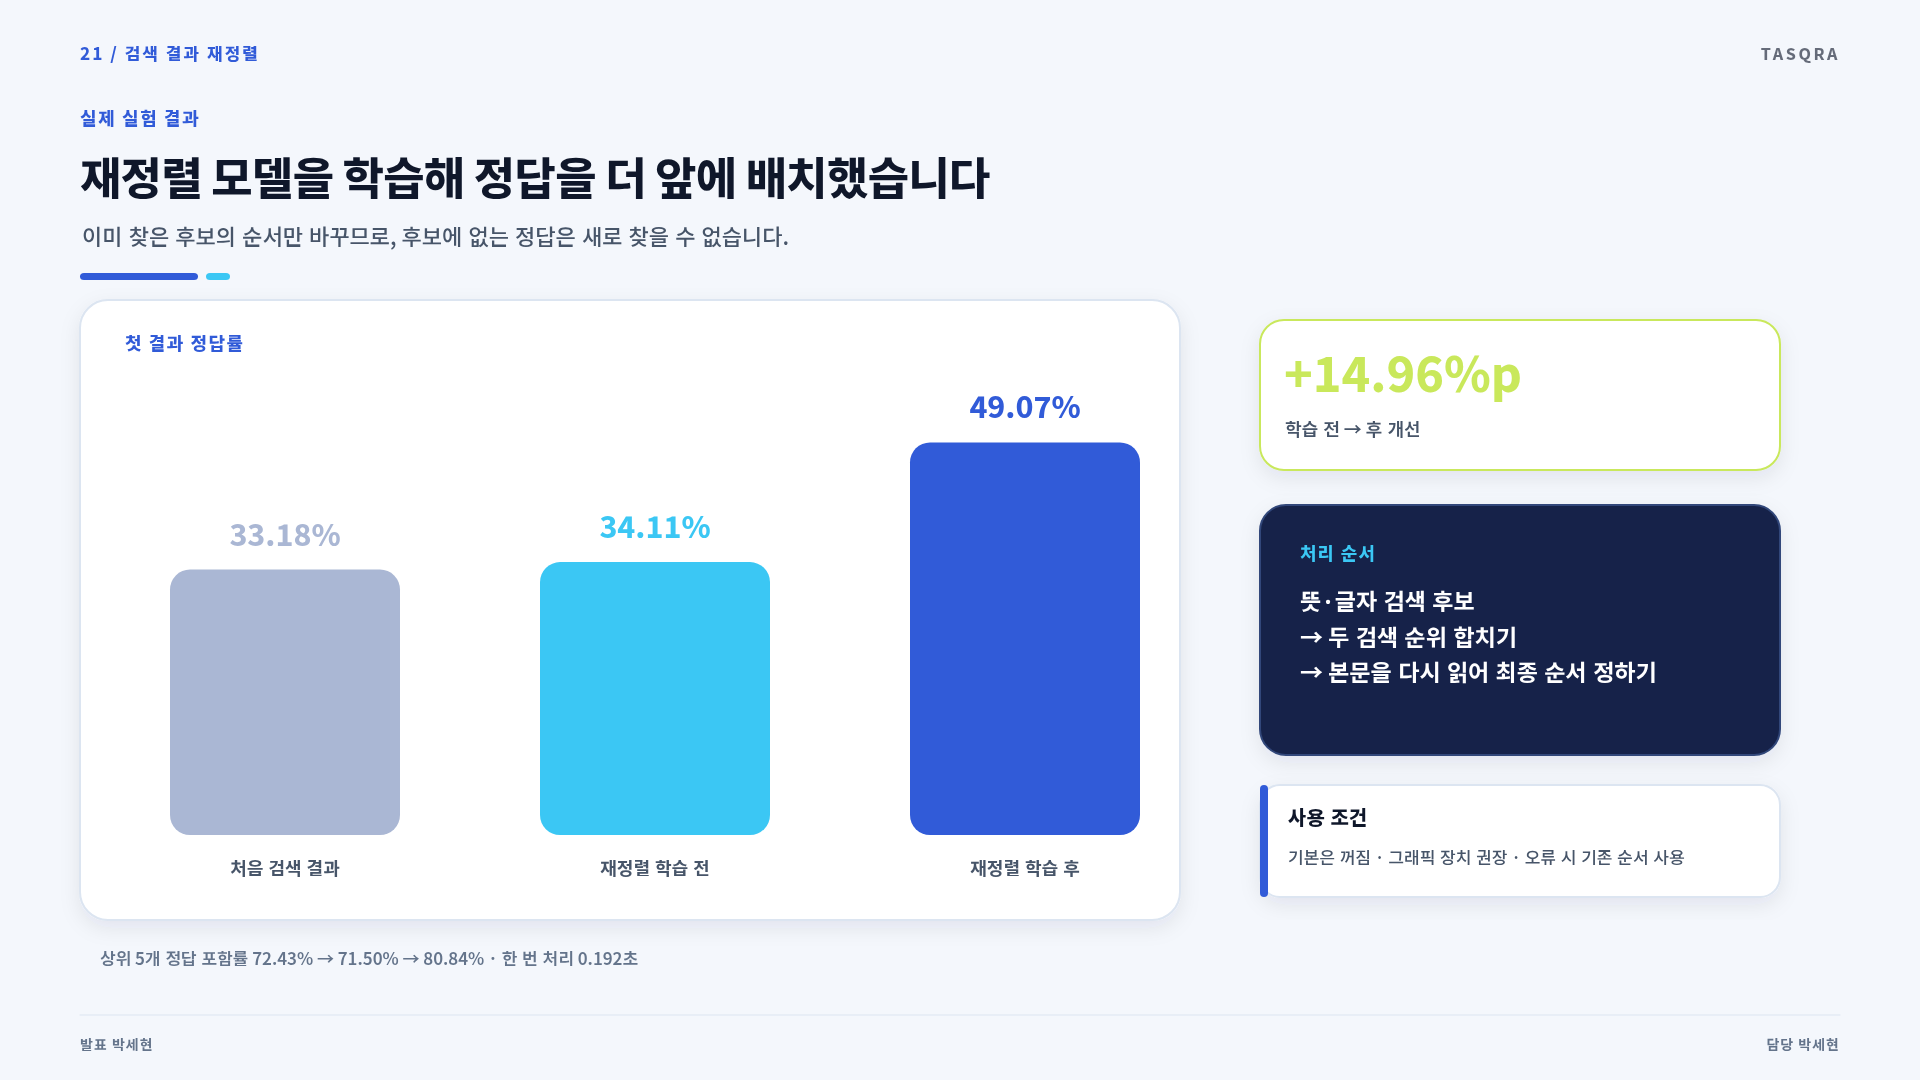
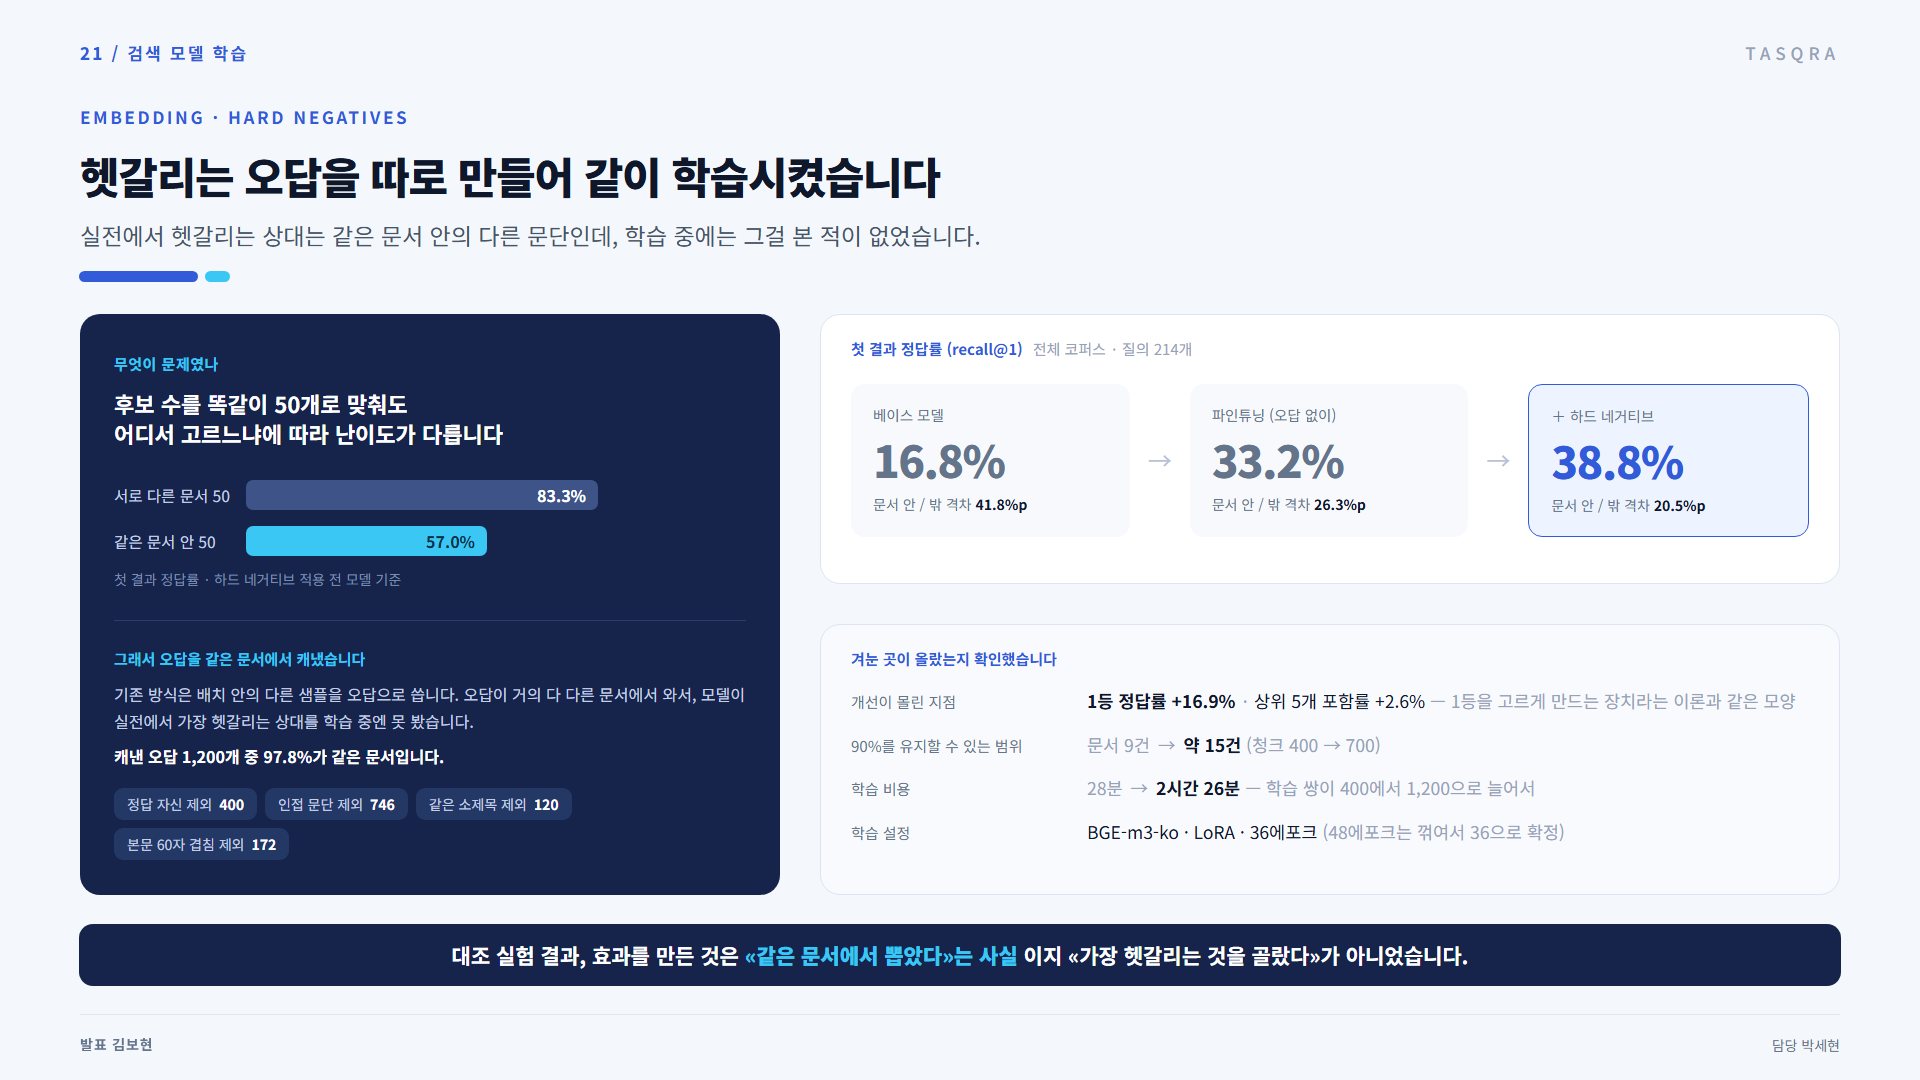
docs: 21번 발표 경계 이동과 세현님 슬라이드 번호 교체

diff --git a/산출물/최종발표/전체본/preview-01-21.html b/산출물/최종발표/전체본/preview-01-21.html
@@ -1,1 +1,1 @@
-<!doctype html><html><head><meta charset="utf-8"><style>body{margin:0;background:#dce4f1;font-family:Arial,sans-serif}.grid{display:grid;grid-template-columns:repeat(4,1fr);gap:18px;padding:18px}.item{background:white;padding:6px;box-shadow:0 5px 18px #0e162f22}.item img{width:100%;display:block}.item b{display:block;padding:6px;color:#16234a}</style></head><body><div class="grid"><div class="item"><b>01</b><img src="slide-01.svg"></div><div class="item"><b>02</b><img src="slide-02.svg"></div><div class="item"><b>03</b><img src="slide-03.svg"></div><div class="item"><b>04</b><img src="slide-04.svg"></div><div class="item"><b>05</b><img src="slide-05.svg"></div><div class="item"><b>06</b><img src="slide-06.svg"></div><div class="item"><b>07</b><img src="slide-07.svg"></div><div class="item"><b>08</b><img src="slide-08.svg"></div><div class="item"><b>09</b><img src="slide-09.svg"></div><div class="item"><b>10</b><img src="slide-10.svg"></div><div class="item"><b>11</b><img src="slide-11.svg"></div><div class="item"><b>12</b><img src="slide-12.svg"></div><div class="item"><b>13</b><img src="slide-13.svg"></div><div class="item"><b>14</b><img src="slide-14.svg"></div><div class="item"><b>15</b><img src="slide-15.svg"></div><div class="item"><b>16</b><img src="slide-16.svg"></div><div class="item"><b>17</b><img src="slide-17.svg"></div><div class="item"><b>18</b><img src="slide-18.svg"></div><div class="item"><b>19</b><img src="slide-19.svg"></div><div class="item"><b>20</b><img src="slide-20.svg"></div><div class="item"><b>21</b><img src="slide-21.svg"></div></div></body></html>
+<!doctype html><html><head><meta charset="utf-8"><style>body{margin:0;background:#dce4f1;font-family:Arial,sans-serif}.grid{display:grid;grid-template-columns:repeat(4,1fr);gap:18px;padding:18px}.item{background:white;padding:6px;box-shadow:0 5px 18px #0e162f22}.item img{width:100%;display:block}.item b{display:block;padding:6px;color:#16234a}</style></head><body><div class="grid"><div class="item"><b>01</b><img src="slide-01.svg"></div><div class="item"><b>02</b><img src="slide-02.svg"></div><div class="item"><b>03</b><img src="slide-03.svg"></div><div class="item"><b>04</b><img src="slide-04.svg"></div><div class="item"><b>05</b><img src="slide-05.svg"></div><div class="item"><b>06</b><img src="slide-06.svg"></div><div class="item"><b>07</b><img src="slide-07.svg"></div><div class="item"><b>08</b><img src="slide-08.svg"></div><div class="item"><b>09</b><img src="slide-09.svg"></div><div class="item"><b>10</b><img src="slide-10.svg"></div><div class="item"><b>11</b><img src="slide-11.svg"></div><div class="item"><b>12</b><img src="slide-12.svg"></div><div class="item"><b>13</b><img src="slide-13.svg"></div><div class="item"><b>14</b><img src="slide-14.svg"></div><div class="item"><b>15</b><img src="slide-15.svg"></div><div class="item"><b>16</b><img src="slide-16.svg"></div><div class="item"><b>17</b><img src="slide-17.svg"></div><div class="item"><b>18</b><img src="slide-18.svg"></div><div class="item"><b>19</b><img src="slide-19.svg"></div><div class="item"><b>20</b><img src="slide-20.svg"></div><div class="item"><b>22</b><img src="slide-22.svg"></div></div></body></html>

diff --git a/도구/pptx/build_final_presentation_29.py b/도구/pptx/build_final_presentation_29.py
@@ -1597,7 +1597,16 @@ def reframe_slide(content: str, display_no: int, presenter: str) -> str:
 
 
 def first21_slides():
-    """22번 이후 파일을 건드리지 않고 새 발표 순서 1~21만 조립한다."""
+    """내가 만드는 장만 조립한다 — 1~20번과 22번이다.
+
+    **21번은 여기서 만들지 않는다.** 21번은 세현님이 만든 검색 모델 학습(하드
+    네거티브) 슬라이드이고, 원본 PNG 의 번호만 바꿔 교체용_PNG 에 넣었다.
+    따라서 이 함수의 결과에는 slide-21 이 없고 slide-22(재정렬 모델)가 들어온다.
+
+    발표 경계도 함께 바뀌었다 — 김보현이 21번까지 발표하고 22번부터 박세현이다.
+    그래서 22번 재정렬 모델의 발표자는 박세현으로 남고, 5번 팀 구성 슬라이드의
+    인계 문구는 `김보현 1~21 → 박세현 22번부터` 로 적는다.
+    """
     # (새 번호, 기존 콘텐츠 검수 키, 생성 함수, 발표자)
     items = [
         (1, 1, v2.slide1, "김보현"),
@@ -1620,7 +1629,8 @@ def first21_slides():
         (18, 16, slide16, "김보현"),
         (19, 17, slide17, "김보현"),
         (20, None, manual_slide20_embedding_selection, "김보현"),
-        (21, 12, slide12, "박세현"),
+        # 21번은 세현님 PNG(검색 모델 학습)로 대체됐다. 재정렬 모델이 22번으로 밀렸다.
+        (22, 12, slide12, "박세현"),
     ]
     slides = []
     for display_no, review_key, builder, presenter in items:
@@ -1631,18 +1641,23 @@ def first21_slides():
         if display_no == 5:
             marker = "기능 슬라이드마다 실제 담당자 표기"
             assert content.count(marker) == 1
-            content = content.replace(marker, "김보현 1~20  →  박세현 21번부터")
-        slides.append(reframe_slide(content, display_no, presenter))
+            content = content.replace(marker, "김보현 1~21  →  박세현 22번부터")
+        slides.append((display_no, reframe_slide(content, display_no, presenter)))
     assert len(slides) == 21
+    assert [no for no, _ in slides] == list(range(1, 21)) + [22]
     return slides
 
 
 def write_first21_svgs():
-    """slide-01~21과 전용 미리보기만 갱신한다. slide-22 이후는 읽거나 쓰지 않는다."""
+    """내가 만드는 장만 갱신한다 — slide-01~20 과 slide-22.
+
+    **slide-21 은 쓰지 않는다.** 세현님 PNG 를 번호만 바꿔 쓰는 장이라 여기서
+    만들면 서로 다른 21번이 생긴다. 23번 이후도 읽거나 쓰지 않는다.
+    """
     OUT.mkdir(parents=True, exist_ok=True)
     slides = first21_slides()
-    for idx, content in enumerate(slides, start=1):
-        path = OUT / f"slide-{idx:02d}.svg"
+    for display_no, content in slides:
+        path = OUT / f"slide-{display_no:02d}.svg"
         path.write_text(content, encoding="utf-8")
         ET.parse(path)
     parts = [
@@ -1650,11 +1665,11 @@ def write_first21_svgs():
         'body{margin:0;background:#dce4f1;font-family:Arial,sans-serif}.grid{display:grid;grid-template-columns:repeat(4,1fr);gap:18px;padding:18px}.item{background:white;padding:6px;box-shadow:0 5px 18px #0e162f22}.item img{width:100%;display:block}.item b{display:block;padding:6px;color:#16234a}',
         '</style></head><body><div class="grid">',
     ]
-    for idx in range(1, 22):
-        parts.append(f'<div class="item"><b>{idx:02d}</b><img src="slide-{idx:02d}.svg"></div>')
+    for display_no, _ in slides:
+        parts.append(f'<div class="item"><b>{display_no:02d}</b><img src="slide-{display_no:02d}.svg"></div>')
     parts.append('</div></body></html>')
     (OUT / "preview-01-21.html").write_text("".join(parts), encoding="utf-8")
-    print(f"SVG slides written: {OUT} (1-21 only)")
+    print(f"SVG slides written: {OUT} (1-20, 22 · 21번은 세현님 PNG)")
 
 
 def all_slides():

diff --git a/산출물/최종발표/최종발표_29장_구성.md b/산출물/최종발표/최종발표_29장_구성.md
@@ -1,6 +1,12 @@
 # Tasqra 최종 발표 29장 구성
 
-기준: 2026-09-10 현재 **1~21번만 확정**. 김보현 1~20번 → 박세현 21번부터 전환. 22번 이후는 박세현 수정 구간이므로 기존 내용을 유지한다.
+기준: 2026-09-10 현재 **1~31번 확정**. **김보현 1~21번 → 박세현 22번부터 전환.**
+
+21번부터 31번까지는 세현님이 만든 슬라이드이며, 원본 PNG(`세현님_원본_PNG/`)의 좌상단 번호만
+새 순서로 바꿔 `전체본/교체용_PNG/` 에 넣었다. 21번은 발표자 표기도 김보현으로 바꿨다.
+**32번 이후는 세현님이 번호 교체를 마친 구간이므로 이 표에서 다루지 않는다.**
+
+내가 SVG 로 만드는 장은 1~20번과 22번뿐이다. 21번과 23~31번은 세현님 PNG 를 쓴다.
 
 | # | 제목 | 한 문장 메시지 | 시각 구조 | 발표 / 담당 |
 |---:|---|---|---|---|
@@ -8,7 +14,7 @@
 | 2 | 공공 SI·용역 타깃 선정 | 공개 원문은 많지만 정답 표본은 부족했고, 근거와 사람 검토가 필요한 문제를 확인했다 | 문제 카드 3개 + 핵심 문장 | 김보현 / 공통 |
 | 3 | 서비스 목표 | AI가 제안하고 사람이 확정한다 | 찾기·구조화·확정 카드 + 승인 흐름 | 김보현 / 공통 |
 | 4 | 전체 사용자 흐름 | 업로드부터 승인된 업무 반영까지 한 흐름이다 | 5단계 흐름 + 계약 이행 후보 + 산출물 | 김보현 / 공통 |
-| 5 | 팀 구성과 역할 | 제품 흐름을 세 영역으로 나눠 구현했다 | 역할 카드 3개 + 김보현 1~20→박세현 21 | 김보현 / 팀 |
+| 5 | 팀 구성과 역할 | 제품 흐름을 세 영역으로 나눠 구현했다 | 역할 카드 3개 + 김보현 1~21→박세현 22 | 김보현 / 팀 |
 | 6 | 시스템 아키텍처·기술 스택 | 즉시 응답과 오래 걸리는 작업을 두 경로로 나누고 같은 데이터·파일을 사용한다 | 요청 진입→두 경로 분기→실행·저장의 세로 흐름 + 보조 설계 이유 | 김보현 / 최재정·공통 |
 | 7 | 핵심 데이터 구조 | Project와 Document를 중심으로 검색·분석·업무 데이터가 연결된다 | 프로젝트→구성원·문서·태스크→조각·분석의 정렬된 화살표 | 김보현 / 최재정 |
 | 8 | 상태를 분리한 운영 설계 | 문서 추출·OCR 검수·LLM 분석은 서로 다른 상태로 관리한다 | 3개 상태 레일 + 섹션별 밝은 진행 상태 강조 | 김보현 / 최재정·박세현 |
@@ -24,15 +30,36 @@
 | 18 | 금액 확정본 | 새 검토가 끝날 때까지 직전 확정본을 유지하고 완료 시 함께 전환한다 | 기존 확정본 유지 + 모든 검토 완료 후 굵은 동시 전환 강조 | 김보현 / 김보현 |
 | 19 | 대시보드·산출물 | 승인된 같은 정보를 화면 구성 예시와 4종 산출물로 연결한다 | 대시보드 예시 + 산출물 4개 | 김보현 / 김보현·최재정 |
 | 20 | 임베딩 모델 선택 | 9개 후보를 같은 조건으로 비교해 BGE-m3-ko를 기본 모델로 선택했다 | 9개 막대 + 후보 기준 + 통계 한계 | 김보현 / 김보현·박세현 |
-| 21 | 재정렬 모델 | 학습한 재정렬 모델이 이미 찾은 후보 안에서 첫 정답 순위를 개선했다 | 막대그래프 + 적용 경로 | 박세현 / 박세현 |
-| 22 | 박세현 자료 삽입 위치 | 세현님이 전달할 최종 파인튜닝 자료로 교체한다 | 자리표시자 — 최종 발표 전 세현님 슬라이드로 교체 | 박세현 / 박세현 |
-| 23 | 구조화 추출 | 결정·일정·액션아이템은 서로 다른 안전장치로 추출한 뒤 PENDING 저장한다 | 3개 분석기 + 공통 검토 저장소 | 박세현 / 김보현·최재정·박세현 |
-| 24 | 보이지 않는 제어문자 오류 | `\x01` 516개가 근거 대조를 깨뜨려 길이 보존 치환과 원문 span 복원을 적용했다 | 오류 전후 + 2단 수정 | 박세현 / 박세현 |
-| 25 | 검증 현황 | 저장된 회귀시험과 최신 전체 PASS·CI 부재를 구분한다 | 확인됨 / 아직 증명 안 됨 | 박세현 / 팀 |
-| 26 | 실제 제품 시연 | 업로드→검수→근거 QA→태스크→산출물을 녹화 영상으로 확인한다 | 16:9 영상 자리 + 챕터 | 박세현 / 팀 |
-| 27 | 현재 한계와 다음 단계 | 검색 확장성·요약 품질·검토 UX·운영 검증을 다음 우선순위로 둔다 | 4개 한계→개선 카드 | 박세현 / 팀 |
-| 28 | 결론 | Tasqra는 문서 저장을 넘어 판단과 실행의 경계를 설계했다 | 3개 성과 + 핵심 결론 | 박세현 / 팀 |
-| 29 | Q&A | 질문을 받는다 | 다크 Q&A | 팀 |
+| 21 | 검색 모델 학습 (하드 네거티브) | 같은 문서에서 뽑은 오답을 함께 학습시켜 첫 결과 정답률을 올렸다 | 난이도 비교 2개 + 오답 구성 + 3단 수치 + 확인 항목 | **김보현** / 박세현 |
+| 22 | 검색 결과 재정렬 | 학습한 재정렬 모델이 이미 찾은 후보 안에서 첫 정답 순위를 개선했다 | 막대그래프 + 적용 경로 | 박세현 / 박세현 |
+| 23 | 재정렬 모델 학습 | 세현님 슬라이드 | 세현님 원본 PNG | 박세현 / 박세현 |
+| 24 | 검색 학습 시행착오 | 세현님 슬라이드 | 세현님 원본 PNG | 박세현 / 박세현 |
+| 25 | 실제 모델 평가 | 세현님 슬라이드 | 세현님 원본 PNG | 박세현 / 박세현 |
+| 26 | 모델 학습 과정 | 세현님 슬라이드 | 세현님 원본 PNG | 박세현 / 박세현 |
+| 27 | 적은 데이터 학습 | 세현님 슬라이드 | 세현님 원본 PNG | 박세현 / 박세현 |
+| 28 | 교차 검증 | 세현님 슬라이드 | 세현님 원본 PNG | 박세현 / 박세현 |
+| 29 | 요약 정확도 측정 | 세현님 슬라이드 | 세현님 원본 PNG | 박세현 / 박세현 |
+| 30 | 정보 항목 찾기 | 세현님 슬라이드 | 세현님 원본 PNG | 박세현 / 박세현 |
+| 31 | 긴 문서 오류 해결 | 세현님 슬라이드 | 세현님 원본 PNG | 박세현 / 박세현 |
+| 32 이후 | 세현님 구간 | 번호 교체 완료 — 이 표에서 다루지 않는다 | — | 박세현 / 팀 |
+
+## 21~31번 번호 교체 대응표
+
+세현님 원본 파일명의 앞 숫자가 원래 번호다. 좌상단 번호만 바꿔 `교체용_PNG` 에 넣었다.
+
+| 원본 파일 | 원래 번호 | 새 번호 | 저장 파일 |
+|---|---:|---:|---|
+| `27_검색모델학습_신규.png` | 27 | **21** | `slide-21.png` (발표자도 김보현으로 교체) |
+| deliver SVG (재정렬 모델) | 21 | **22** | `slide-22.png` |
+| `28_재정렬모델학습_신규.png` | 28 | **23** | `slide-23.png` |
+| `26_검색학습시행착오_신규.png` | 26 | **24** | `slide-24.png` |
+| `21_실제모델평가_수정.png` | 21 | **25** | `slide-25.png` |
+| `22_모델학습과정_수정.png` | 22 | **26** | `slide-26.png` |
+| `23_적은데이터학습_신규.png` | 23 | **27** | `slide-27.png` |
+| `24_교차검증_신규.png` | 24 | **28** | `slide-28.png` |
+| `25_요약정확도측정_신규.png` | 25 | **29** | `slide-29.png` |
+| `29_정보항목찾기_번호만변경.png` | 29 | **30** | `slide-30.png` |
+| `30_긴문서오류해결_번호만변경.png` | 30 | **31** | `slide-31.png` |
 
 ## 발표에서 금지할 표현
 

diff --git a/산출물/최종발표/세현님_발표흐름_및_대본준비.md b/산출물/최종발표/세현님_발표흐름_및_대본준비.md
@@ -8,7 +8,7 @@
 
 ## 1. 발표자와 구현 담당은 구분합니다
 
-- **발표 순서**: 김보현 1~20번 → 박세현 21번부터
+- **발표 순서**: 김보현 1~21번 → 박세현 22번부터 (21번 검색 모델 학습은 세현님 슬라이드를 김보현이 발표)
 - **구현 담당 표기**: 각 슬라이드 아래의 `담당`을 따릅니다.
 - 김보현이 발표하는 10~11번 OCR 슬라이드의 **구현 담당은 최재정**입니다.
 
@@ -51,19 +51,29 @@
 19. 승인 정보를 대시보드·산출물로 연결
 20. 9개 후보 비교와 BGE-m3-ko 선택 근거
 
+### 21번 — 검색 모델 학습 (하드 네거티브) · 발표만 김보현
+
+**구현 담당: 박세현 / 발표: 김보현**
+
+세현님이 만든 슬라이드이고 구현도 박세현이지만, **발표는 김보현이 합니다.**
+같은 문서에서 뽑은 오답을 함께 학습시켜 첫 결과 정답률을 16.8 → 33.2 → 38.8퍼센트로
+올린 내용이며, 김보현 대본에 21번으로 들어가 있습니다.
+
 ### 발표자 전환 · 김보현 → 박세현
+
+**전환 지점이 21번 뒤로 바뀌었습니다.** 20번이 아닙니다.
 
 김보현 마무리 문장:
 
-> 여기까지 기본 임베딩 모델의 선택 근거였습니다. 이제 박세현님이 검색 후보 순서를 개선한 재정렬 모델 결과를 설명하겠습니다.
+> 여기까지 임베딩 모델을 우리 문서에 맞게 학습시킨 결과였습니다. 이제 박세현님이 검색 후보의 순서를 다시 정하는 재정렬 모델부터 이어서 설명하겠습니다.
 
 박세현 시작 문장:
 
 > 이어서 기본 검색이 찾은 후보를 다시 읽고, 정답을 더 앞에 배치하도록 학습한 재정렬 모델 결과를 설명드리겠습니다.
 
-## 4. 박세현 담당 발표: 21번부터
+## 4. 박세현 담당 발표: 22번부터
 
-### 21번 — 재정렬 모델
+### 22번 — 검색 결과 재정렬
 
 **구현 담당: 박세현 / 발표: 박세현**
 
@@ -86,7 +96,7 @@
 
 주의해서 말할 부분:
 
-- 20번 임베딩 모델 선택과 21번 재정렬 결과는 평가 조건이 다르므로 직접적인 전후 개선율로 비교하지 않습니다.
+- 20번 임베딩 모델 선택, 21번 검색 모델 학습, 22번 재정렬 결과는 평가 조건이 서로 다르므로 직접적인 전후 개선율로 비교하지 않습니다.
 - 재정렬은 벡터·키워드 후보와 RRF 결과를 다시 읽어 순서만 바꿉니다.
 - 기본은 비활성이고 GPU 사용을 권장하며, 실패하면 원래 검색 순서를 사용합니다.
 
@@ -201,9 +211,9 @@
 
 | 구간 | 발표자 | 예상 시간 |
 |---|---|---:|
-| 1~20번 | 김보현 | 약 21~24분 |
-| 21번 재정렬 모델 | 박세현 | 약 1분 |
-| 22번 이후 | 박세현 | 최종 구성 확정 뒤 계산 |
+| 1~21번 | 김보현 | 약 23~26분 |
+| 22번 검색 결과 재정렬 | 박세현 | 약 1분 |
+| 23번 이후 | 박세현 | 최종 구성 확정 뒤 계산 |
 | 질의응답 | 팀 | 별도 |
 | **본 발표 합계** |  | **22번 이후 확정 뒤 계산** |
 
@@ -214,5 +224,6 @@
 - 계약 이행 태스크 후보는 제품에 구현된 별도 기능입니다. 이는 모든 문서에서 다음 작업을 자유롭게 추천하는 기능이 아니라, 계약·변경계약 문서에서 규칙으로 찾은 행동·의무 후보 중 필요한 항목을 선별하고 사람이 승인하는 제한된 흐름입니다.
 - 김보현은 **RAG 청킹·임베딩 색인·하이브리드 검색**, 박세현은 **임베딩·리랭커 모델 파인튜닝**으로 구분합니다.
 - 계약·변경계약 문서의 행동·의무 후보 중 AI가 선택하고, 사람이 승인해야 실제 태스크가 됩니다.
-- 21번 재정렬 결과는 20번 임베딩 모델 선택과 평가 조건이 다르므로 직접적인 전후 개선율로 말하지 않습니다.
+- 22번 재정렬 결과는 20번 임베딩 모델 선택·21번 검색 모델 학습과 평가 조건이 다르므로 직접적인 전후 개선율로 말하지 않습니다.
+- 21번의 질의 214개가 14번 검색 규모 실험과 같은 평가셋인지 김보현과 맞춰야 합니다. 확인 전에는 두 장의 수치를 이어 붙이지 않습니다.
 - 검색 실험 수치는 평가셋과 후보 범위가 다르면 직접적인 전후 개선율로 비교하지 않습니다.
